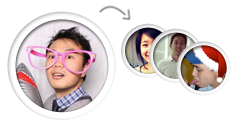
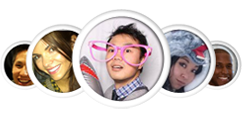
Updated logged out with UI v1.4 mockup. Updated label bundles. Worked on logged out markup/css.

diff --git a/tapjoyads/public/stylesheets/sass/marketplace/theme/tjm/logged_out.scss b/tapjoyads/public/stylesheets/sass/marketplace/theme/tjm/logged_out.scss
@@ -324,7 +324,7 @@ span.gill {
     display: inline-block;
     vertical-align: middle;
     text-align: center;
-    width: 33%;
+    width: 32%;
   }
 
   #labels span {
@@ -349,15 +349,14 @@ span.gill {
    margin-top: 160px;
  }
 
- .share img {
-   background: url(#{$image_path}/share_friends.png) no-repeat center center;
-   background-size: 230px 118px;
-   height: 118px;
-   width: 220px;
-   margin-top: 175px;
-      margin-bottom: 40px;
-
- }
+  .share img {
+    background: url(#{$image_path}/share_friends.png) no-repeat center center;
+    background-size: 227px 117px;
+    height: 117px;
+    width: 227px;
+    margin-top: 180px;
+    margin-bottom: 40px;
+  }
 }
 
 #getting-started {
@@ -507,6 +506,7 @@ span.gill {
   .collect {
     width: 280px;
     height: 130px;
+    margin: 0 auto;
   }
 
   h6,
@@ -710,9 +710,10 @@ span.gill {
 
     .share img {
       background: url(#{$image_path}/share_friends.png) no-repeat 0 0;
-      background-size: 203px 104px;
-      height: 104px;
-      width: 203px;
+      background-size: 208px 107px;
+      height: 107px;
+      width: 208px;
+      margin-top: 170px;
     }
   }
 
@@ -786,7 +787,7 @@ span.gill {
       background-size: 182px 93px;
       height: 93px;
       width: 182px;
-      margin-top: 156px;
+      margin-top: 160px;
     }
   }
 
